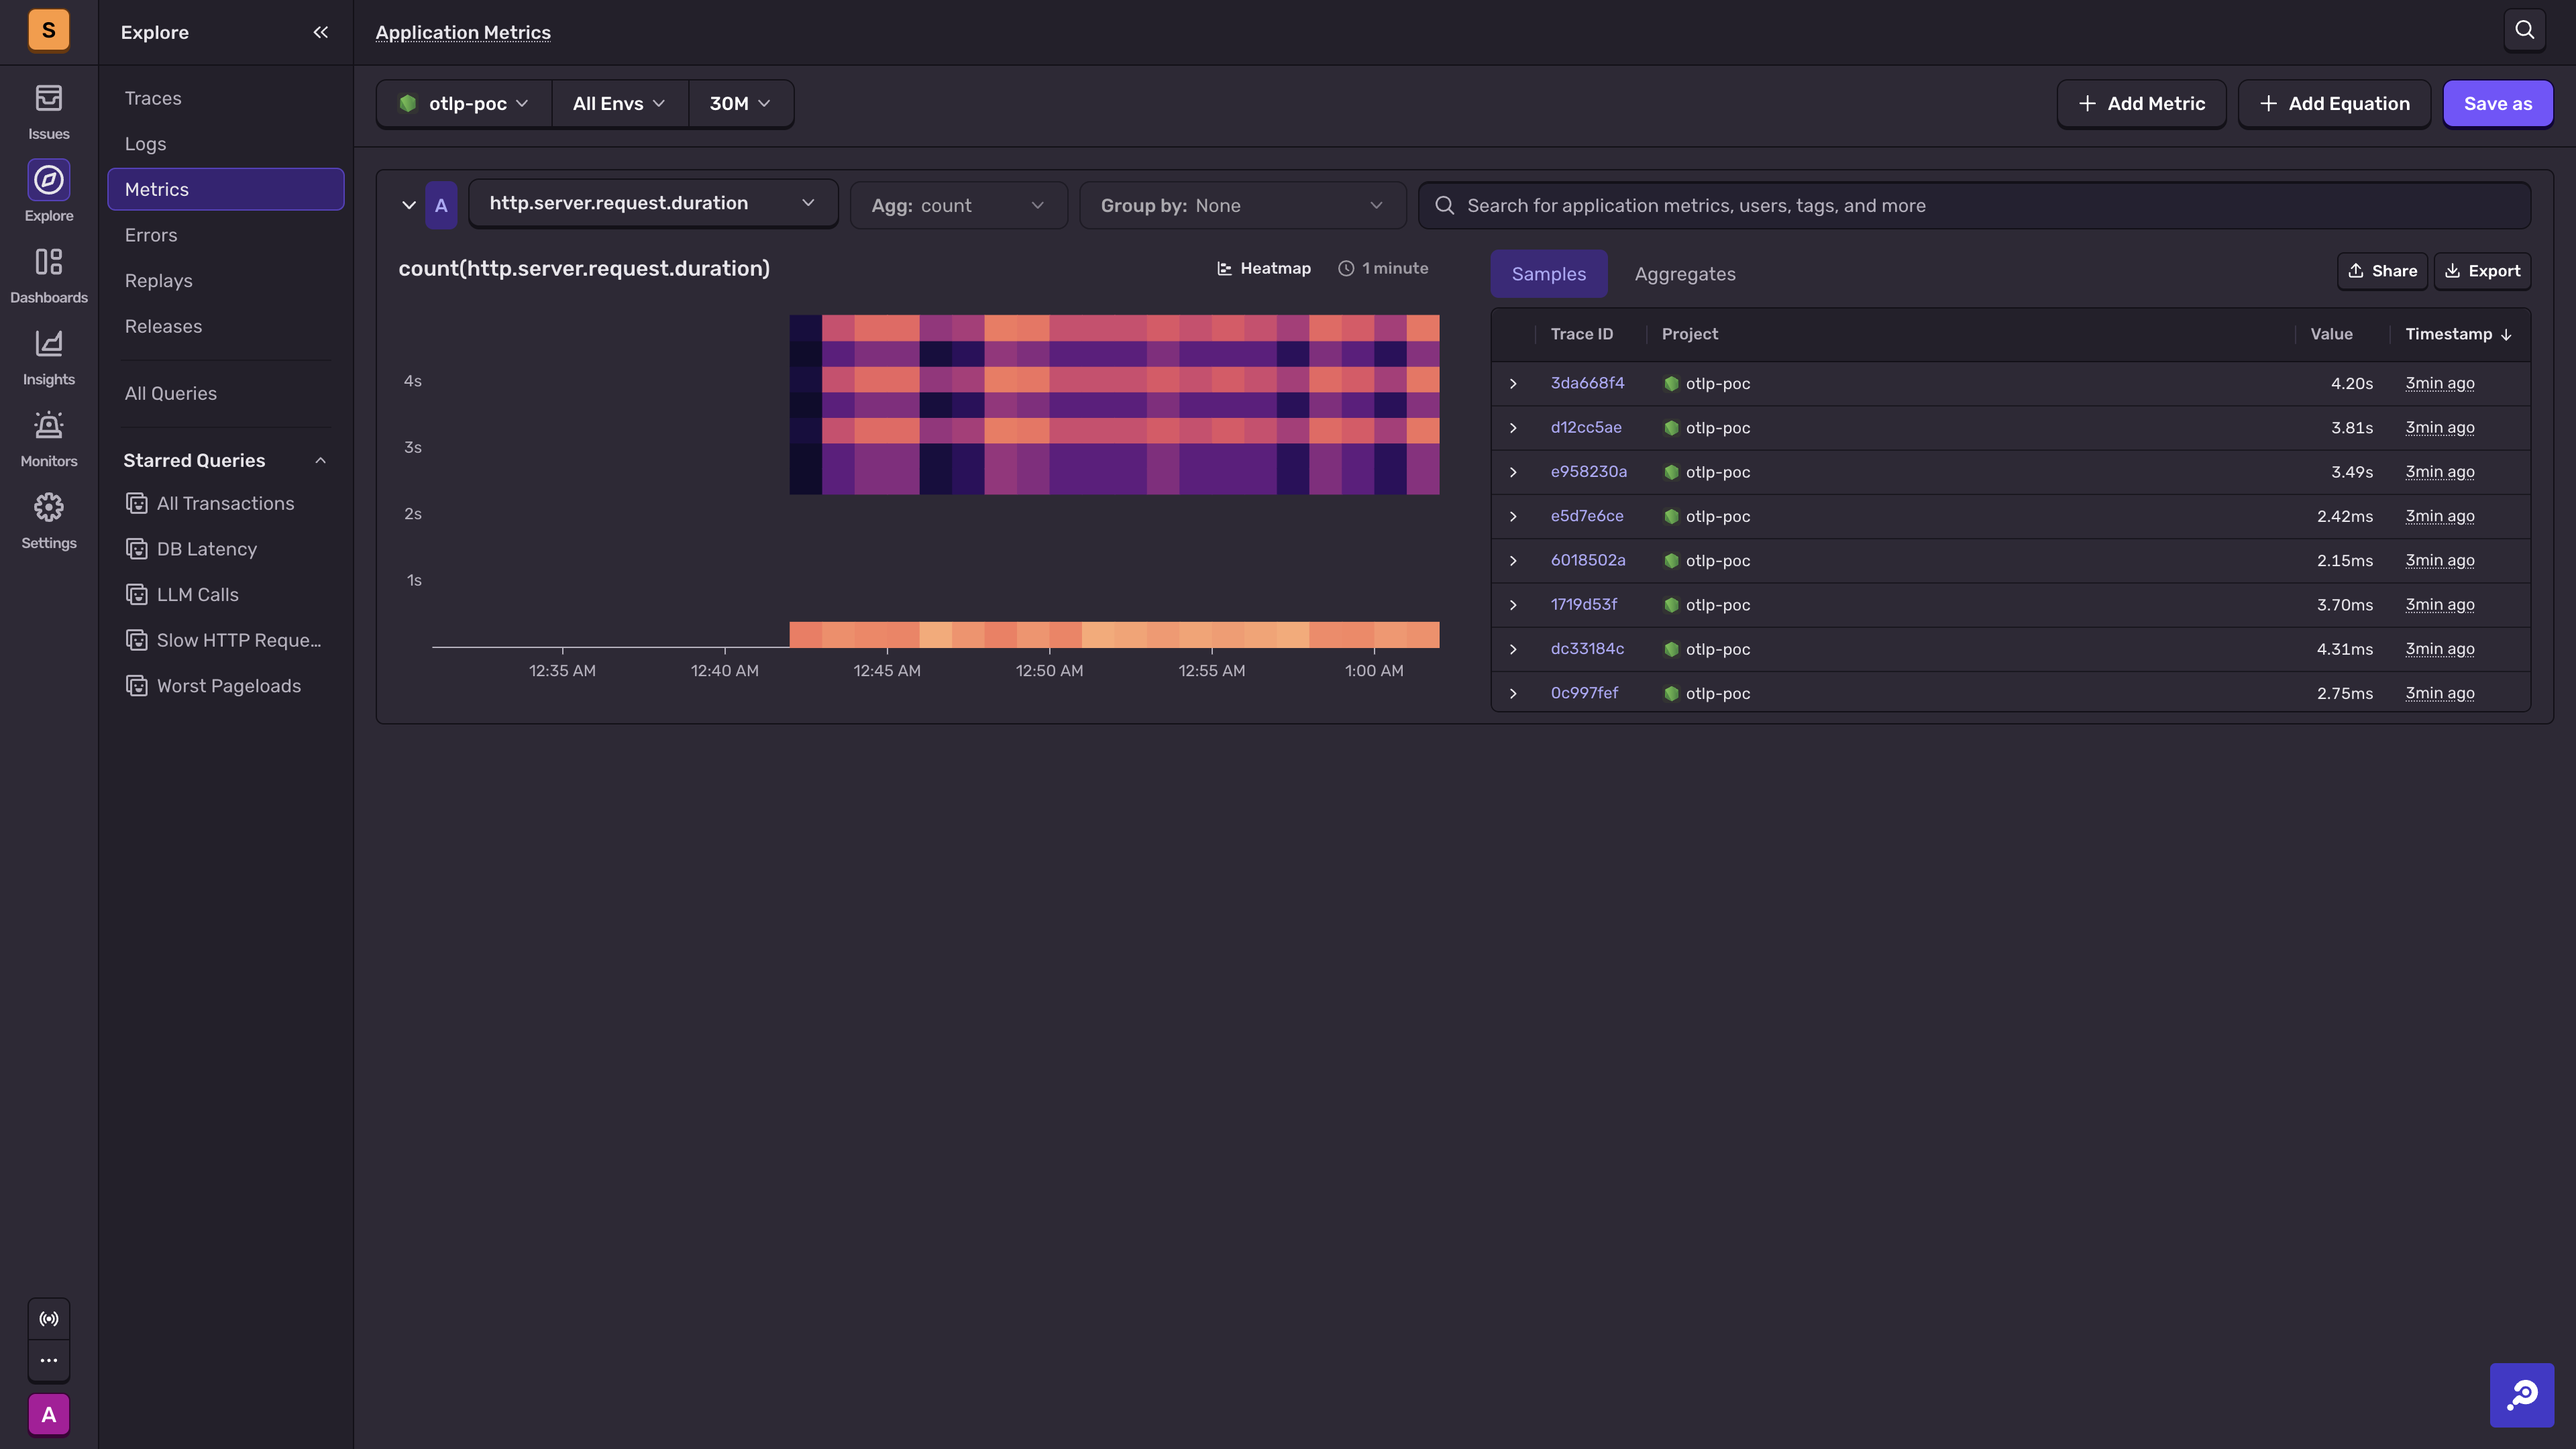
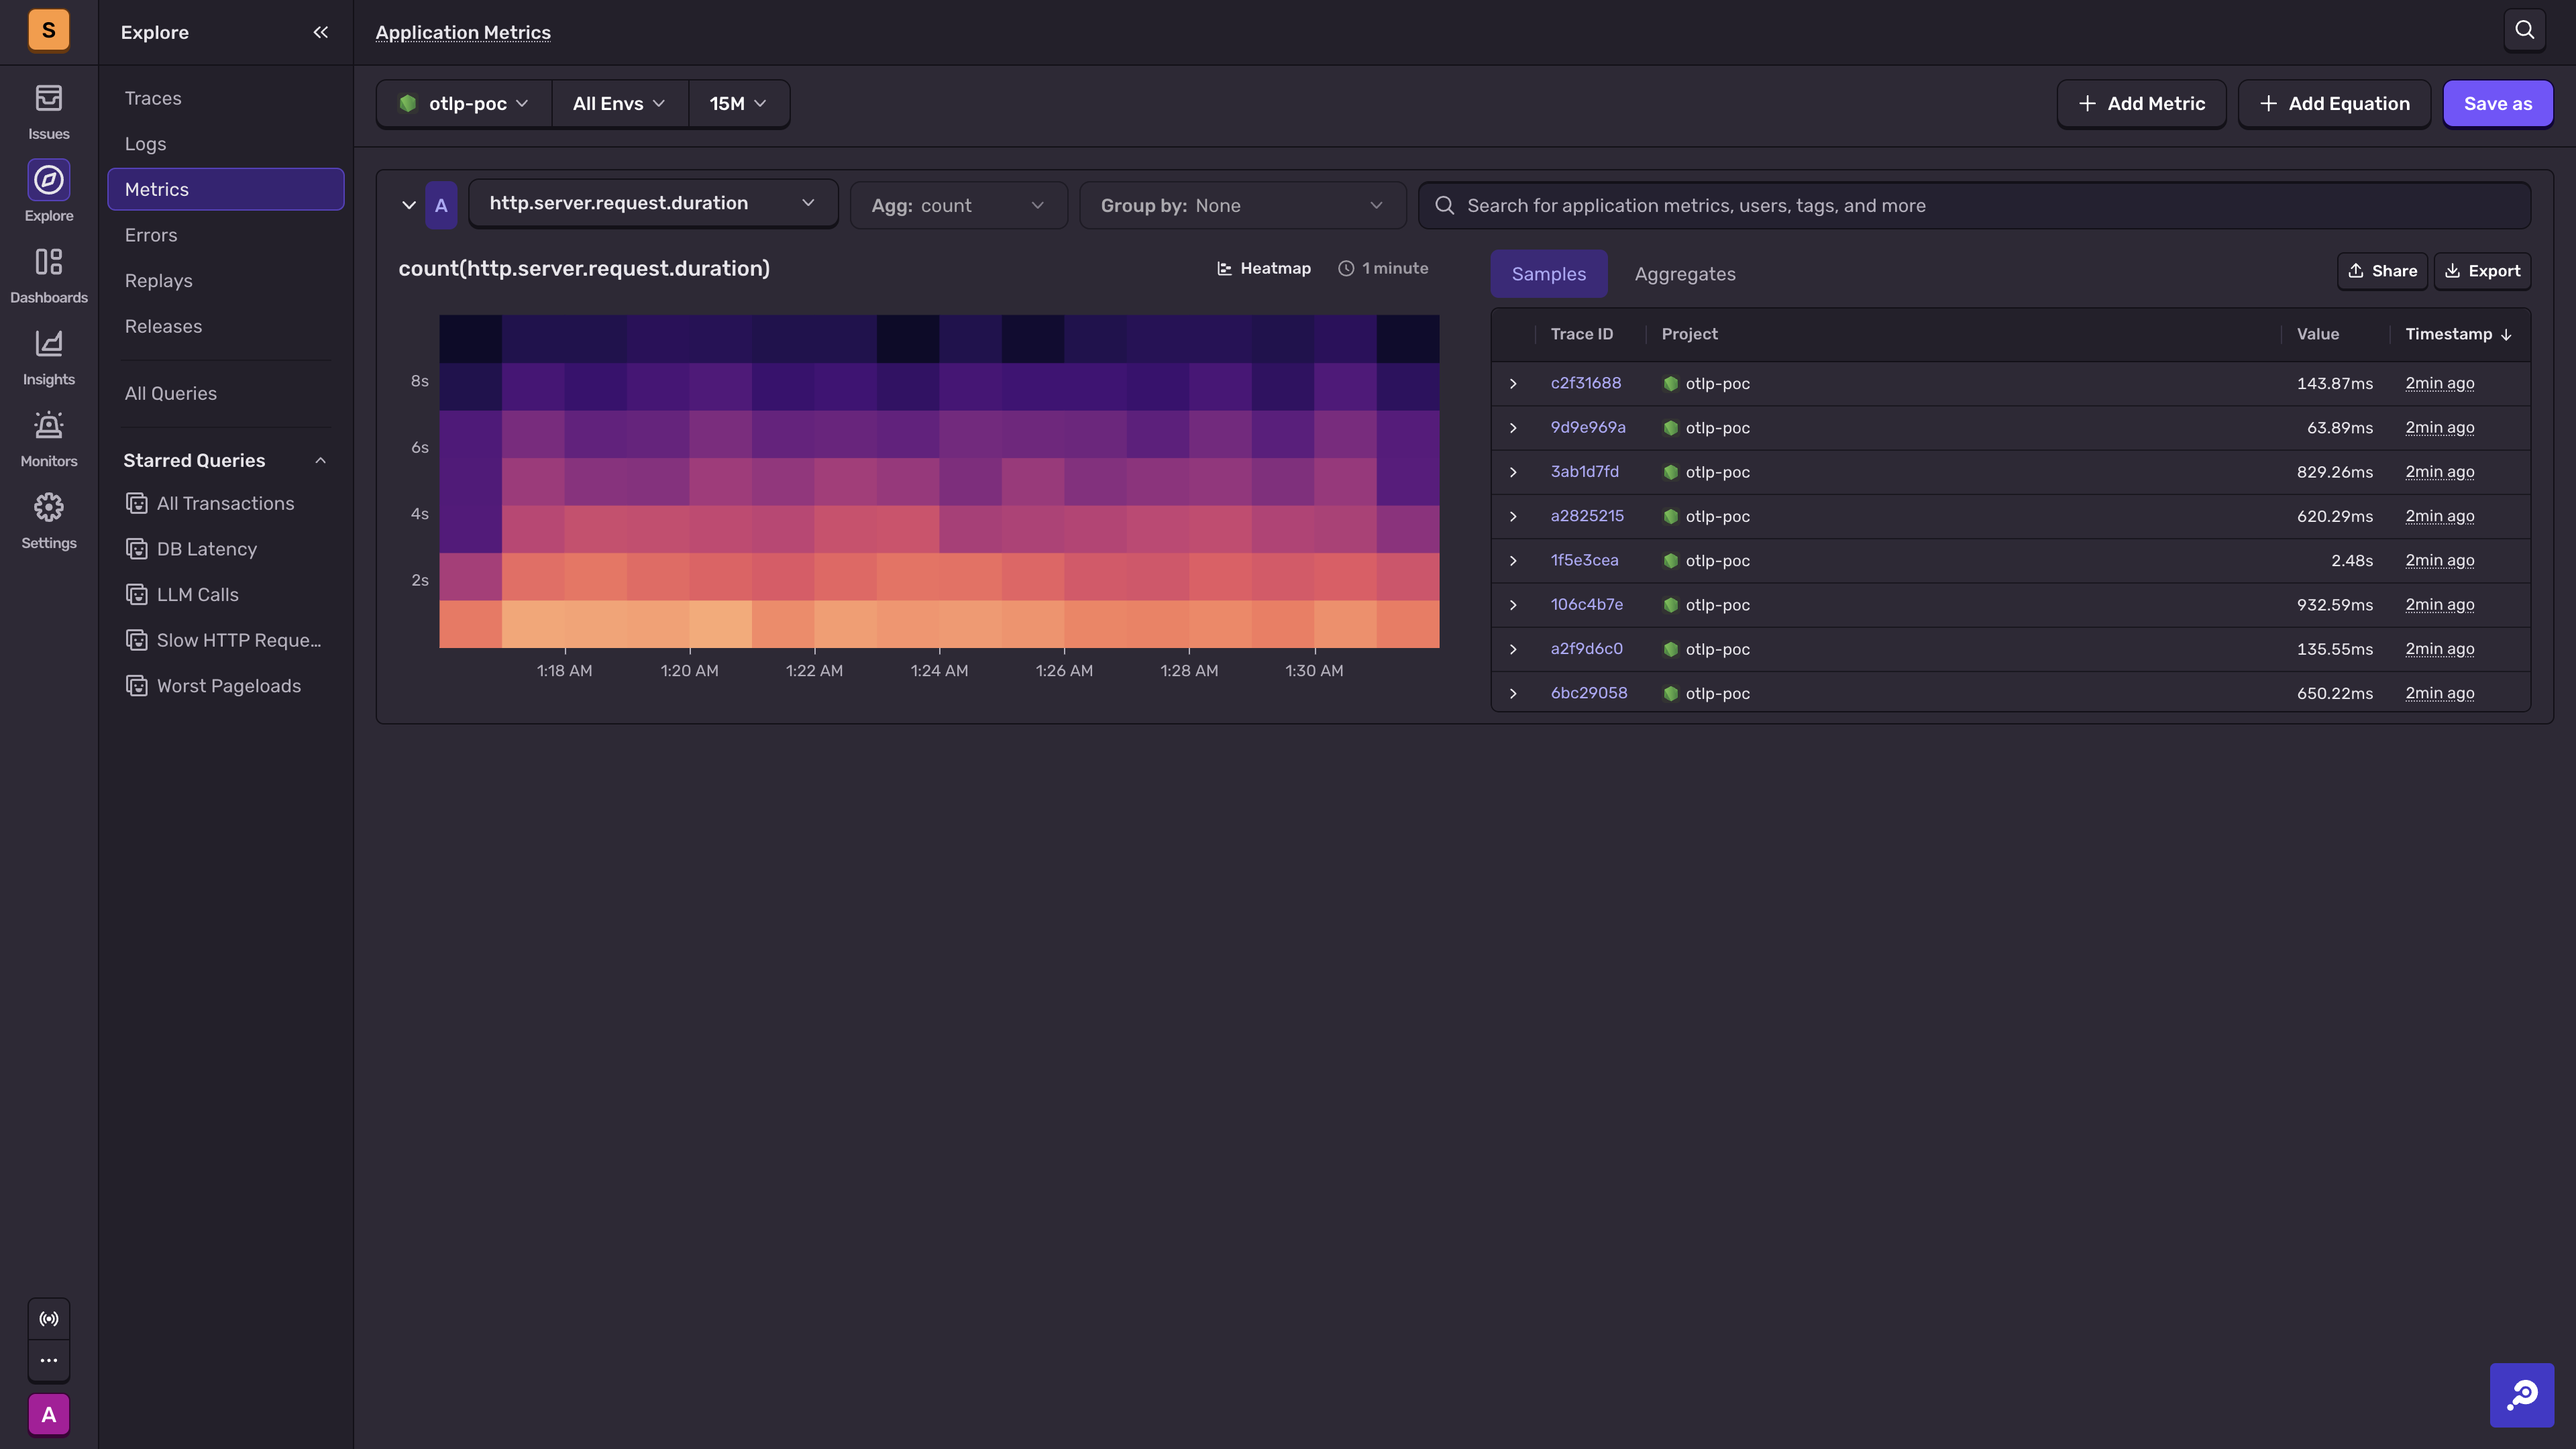
otlp: qbench.sh, k-points vs rank query cost on 32-bucket data, new heatmap screenshot

diff --git a/otlp/README.md b/otlp/README.md
@@ -15,7 +15,7 @@ Everything in this folder is PoC tooling. No PRs are opened from it.
 | `grafana/` | Provisioned Prometheus datasource (exemplar trace links → local Sentry trace view) and the `otlp-poc` dashboard |
 | `relay/config.yml` | Config for running Relay from source on the host, same port/credentials as the devservices container |
 | `screenshots/` | Captures from the live comparison |
-| `scripts/` | `sentry-devserver.sh`, `snuba-devserver.sh`, `mkproject.py`/`mktoken.py` (run via `sentry exec`), `build_config.py`, `compare.py`, `sq.sh`, `rows.sql`, `rpc_repro.py`, `smoke.envelope` |
+| `scripts/` | `sentry-devserver.sh`, `snuba-devserver.sh`, `mkproject.py`/`mktoken.py` (run via `sentry exec`), `build_config.py`, `compare.py`, `sq.sh`, `qbench.sh`, `rows.sql`, `rpc_repro.py`, `smoke.envelope` |
 
 The "OTel Metrics" tab in the fake web app (`src/App.jsx`) drives `app/server.mjs`: sync DSN + URLs, start/stop load, send fixture, view status.
 
@@ -180,11 +180,20 @@ Instruments (`app/load.mjs`):
 | --- | --- | --- | --- |
 | `poc.requests` | Counter | `poc.requests` / counter | `poc_requests_total` |
 | `poc.queue_depth` | ObservableGauge | `poc.queue_depth` / gauge | `poc_queue_depth` |
-| `http.server.request.duration` (ms, default explicit bounds) | Histogram | `http.server.request.duration` / histogram | `http_server_request_duration_milliseconds_{bucket,count,sum}` |
+| `http.server.request.duration` (ms, explicit bounds) | Histogram | `http.server.request.duration` / histogram | `http_server_request_duration_milliseconds_{bucket,count,sum}` |
 | `http.server.request.duration.exp` (View → exponential histogram) | Histogram | `http.server.request.duration.exp` / histogram | `http_server_request_duration_exp_milliseconds` (native histogram) |
 
-Durations are bimodal: 94% uniform in (0, 5], 6% uniform in (2500, 5000] ("cache miss").
-Each record happens inside a span exported to Relay via OTLP traces.
+Explicit bounds come from `config.explicitBuckets`: `16` = the OTel SDK default layout, `32`
+(default) = a denser log-spaced 1-2-3-5-7.5 layout up to 30 s (`BOUNDS_32` in `otel.mjs`). Relay
+has no cap on explicit buckets; exponential histograms are downscaled to ≤ 64 populated buckets
+per side (`MAX_EXPONENTIAL_BUCKETS` in `relay-server/.../integrations/otel.rs`).
+
+Durations are log-normal per route (medians 60 / 300 / 1200 ms for `/api/users`, `/api/search`,
+`/api/checkout`) plus a 3% "cache miss" tail uniform in (2500, 7500], so 27 of the 32 buckets are
+populated. The earlier bimodal shape (94% in (0, 5], 6% in (2500, 5000]) is kept in the fixture.
+`config.requestsPerSecond` and `exportIntervalMillis` control row volume (200 rps at a 1 s export
+≈ 180 rows/s across both histograms). Each record happens inside a span exported to Relay via OTLP
+traces.
 
 **Exemplars:** the OTel JS SDK (sdk-metrics 2.12) does not emit exemplars — `ExemplarFilter`/
 `ExemplarReservoir` exist in source but no reservoir is wired into the aggregators, and
@@ -282,7 +291,32 @@ Measured at k = 10:
 - `arrayJoin` multiplies every row in the SELECT, not just the aggregate; the hidden count column
   and the exemplar exclusion are rewritten too (`aggregation.py::get_count_column`). Identical
   `arrayJoin` expressions are CSE'd by ClickHouse so one query pays k× once, not per aggregate.
-- Query cost is k× the bucket rows; not measurable on this dataset.
+
+### Query cost: k-points vs merged-bucket rank
+
+`scripts/qbench.sh <label> 10m 5` runs the three Explore shapes against the 32-bucket histogram
+(aggregate table with count/sum/avg/p50/p95/p99/min/max, p95 timeseries at 1 m, heatmap at 1 m ×
+20 y-cells — the heatmap is two ClickHouse queries per request) and reads ClickHouse
+`system.query_log`. 10 m window ≈ 95 k observations, ~100 k–120 k EAP rows scanned per query
+(bucket + exemplar rows of both histograms; the window drifts between runs because load keeps
+coming in). Single local ClickHouse, warm cache, numbers are avg / max of 5 requests:
+
+| mode | table ms | table mem | timeseries ms | timeseries mem | heatmap ms (per query) | heatmap mem |
+| --- | --- | --- | --- | --- | --- | --- |
+| k = 0 (rank + interpolate) | 494–594 / 1077 | 42 MiB | 221–275 / 388 | 17 MiB | 124–155 / 291 | 15 MiB |
+| k = 10 | 206–298 / 387 | 17–19 MiB | 141–150 / 197 | 17–20 MiB | 442–756 / 3065 | 30–32 MiB (max 62) |
+| k = 32 | 418–486 / 810 | 23–27 MiB | 242–298 / 362 | 29–32 MiB | 1097–1221 / 2933 | 49–55 MiB (max 106) |
+
+- The aggregate table is *faster* at k = 10 than in rank mode: `sumMap` keyed by `(lower, upper)`
+  plus `arrayCumSum` per percentile is heavier than one weighted t-digest over 10× rows, and
+  uses 2× the memory. At k = 32 the two are even.
+- The timeseries (one percentile) is roughly a wash at k = 10 and ~10–20% slower at k = 32.
+- The heatmap is where k shows: 3–4× slower at k = 10 and ~8× at k = 32, because 20 y-cells ×
+  `count_if` each evaluate the expanded value, and memory scales with k. In rank mode the heatmap
+  is cheap but wrong (a bucket's whole count lands in the cell holding its midpoint).
+- Accuracy on this data (10 m, 32-bucket layout): p50 / p95 / p99 = 188.3 / 2927 / 6175 at k = 0,
+  187.5 / 2943 / 6126 at k = 10, 187.9 / 2943 / 6187 at k = 32 — all within 1%, which is well
+  inside what the bucket layout itself can resolve.
 
 Load at 20 req/s from 17:11 UTC. `scripts/compare.py` (`SENTRY_TOKEN=… python3 scripts/compare.py 15 5`) pulls Sentry `events-stats`
 (`interval=Nm`) and Prometheus `query_range` (`step=Nm`, range vectors `[Nm]`) over the same window.

diff --git a/otlp/DESIGN.md b/otlp/DESIGN.md
@@ -213,6 +213,7 @@ Measured on the bench (`http.server.request.duration`, one series, 10 s export i
 | | per OTLP point | rows | Relay-serialized bytes (Kafka) | notes |
 | --- | --- | --- | --- | --- |
 | explicit histogram, bimodal load | 1 | 1.97 bucket + 4 exemplar | ~725 / bucket row, ~436 / exemplar | only 2 of 16 buckets are populated |
+| explicit histogram, 32-bucket layout, log-normal load | 1 | up to 27 bucket + 4 exemplar | same per row | one row per populated bucket; the layout, not the data, sets the row count |
 | exponential histogram, same load | 1 | 28.3 bucket (max 42) + 4 exemplar | ~728 / bucket row | base-2 at scale ≥ 3 puts a bucket every few % |
 | counter / gauge | 1 | 1 point | ~350–410 | |
 | example point above | 1 | 3 bucket + 2 exemplar | ≈ 3 050 B total | vs 1 871 B of OTLP JSON in |
@@ -269,7 +270,11 @@ per point and is the thing to watch.
   120 per 500 ms cell; percentiles on the fixture alone match interpolation mode exactly, and on
   a large mixed window snap to the `width/k` lattice (p50 2.75 vs 2.66, p99 4625 vs 4583 at k = 10).
   Cost is k× the bucket rows per query (ClickHouse CSEs identical `arrayJoin`s, so once per
-  query, not per aggregate). Default is 0 = exact rank + interpolation, no heatmap.
+  query, not per aggregate). Measured on a 32-bucket layout over ~100 k rows (README "Query
+  cost"): the aggregate table is ~2× *faster* at k = 10 than rank mode (one weighted t-digest
+  beats `sumMap` + `arrayCumSum` per percentile) and even at k = 32; the p95 timeseries is a
+  wash; the heatmap is 3–4× slower at k = 10 and ~8× at k = 32 with memory scaling with k.
+  Default is 0 = exact rank + interpolation, no heatmap.
 - Exemplars only exist if the SDK sends them. OTel JS doesn't; Java/Go/Python do with the
   `trace_based` filter (only inside sampled spans). Without them the histogram Samples tab is
   empty and says so.

diff --git a/otlp/OVERVIEW.md b/otlp/OVERVIEW.md
@@ -112,8 +112,10 @@ single biggest lever on cost; moving to one row per point (option 3) is the othe
   DELTA` or a Collector `cumulativetodelta` step the points are dropped.
 - **Heatmaps** work only in "k-points" mode: Snuba expands each bucket row into k evenly spaced
   points (`arrayJoin`) so a bucket's count is spread over the y-cells it covers. Same trick makes
-  t-digest percentiles and value filters work on bucket rows, at k× query cost and a resolution of
-  `bucket_width / k`. Off by default (`SNUBA_OTLP_HISTOGRAM_POINTS_PER_BUCKET`).
+  t-digest percentiles and value filters work on bucket rows at a resolution of `bucket_width / k`.
+  Measured at k = 10 on a 32-bucket layout: aggregate table ~2× faster than the rank path,
+  timeseries equal, heatmap 3–4× the cost of a (wrong) midpoint heatmap. Off by default
+  (`SNUBA_OTLP_HISTOGRAM_POINTS_PER_BUCKET`).
 - **Exemplars** are the only "samples" a histogram has, and only exist if the SDK sends them
   (OTel JS doesn't by default). Without them the Samples tab is empty and explains why. Trace
   links work when the trace was also sent to Sentry.
